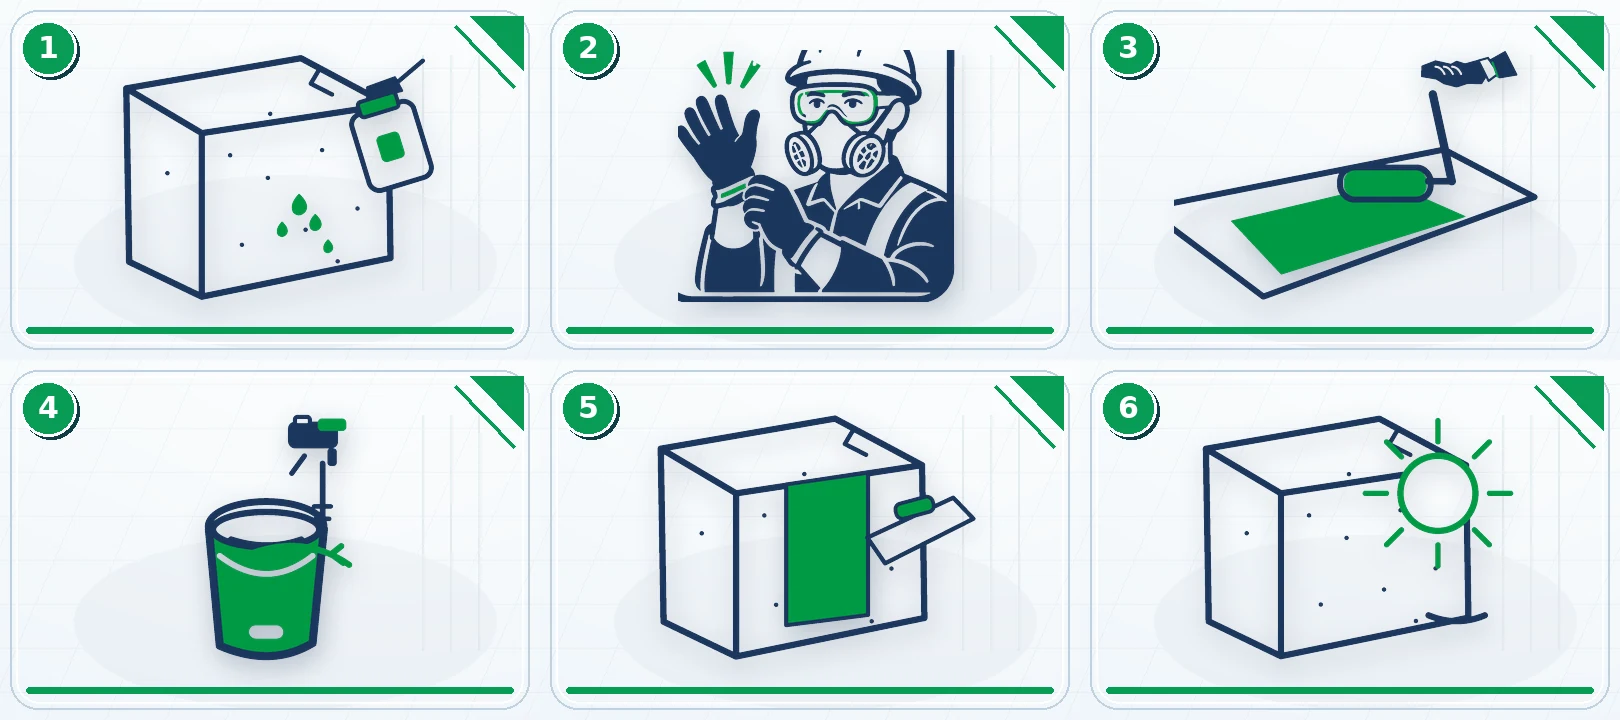
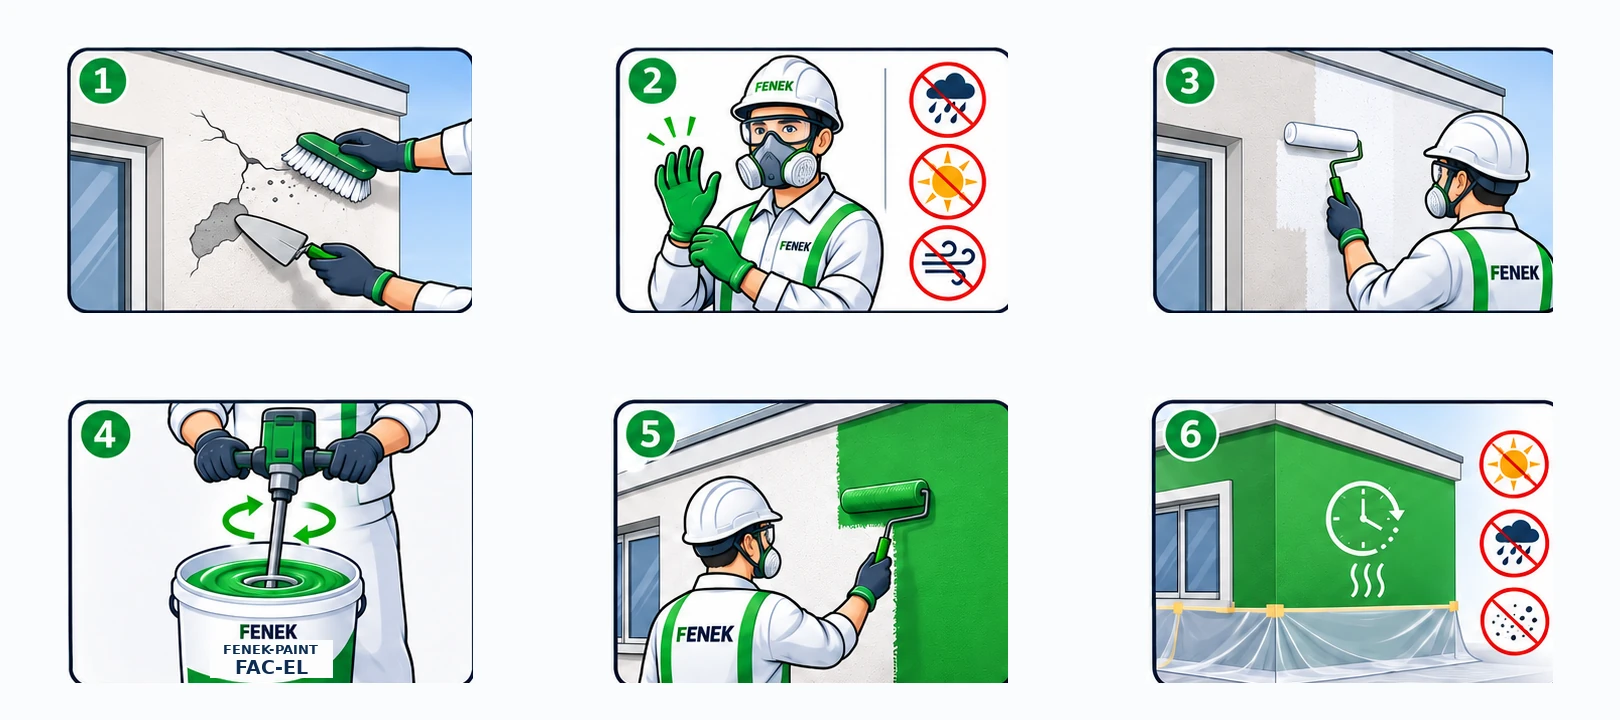
Lot 138: modernize 3 FENEK facade paint six-step illustrations

diff --git a/tests/test_lot138_facade_art.py b/tests/test_lot138_facade_art.py
@@ -1,0 +1,46 @@
+"""Lot 138: professional façade visuals are real, product bound and source safe."""
+import hashlib
+import json
+import unittest
+from pathlib import Path
+
+ROOT = Path(__file__).resolve().parents[1]
+ART=json.loads((ROOT/"src/data/fenek-enhanced-artwork.json").read_text(encoding="utf-8"))
+MAN=json.loads((ROOT/"src/data/fenek-v3-manuals.json").read_text(encoding="utf-8"))
+CAT=json.loads((ROOT/"src/data/catalogue-projets.json").read_text(encoding="utf-8"))
+CODES={"PAINT-FAC-M","PAINT-FAC-EL","PAINT-FAC-SX"}
+TITLES=["Nettoyer et réparer la façade","Porter les EPI, éviter les intempéries",
+        "Appliquer le primaire adapté","Homogénéiser selon la fiche technique",
+        "Appliquer sur façade au rouleau","Protéger le revêtement pendant le séchage"]
+class FacadeIllustrations(unittest.TestCase):
+    def test_three_exact_sources_and_six_steps(self):
+        by={p["code"]:p for p in ART}
+        docs={p["code"]:p for p in MAN}
+        cat={p["code"]:p for p in CAT}
+        self.assertEqual(set(by)&CODES,CODES)
+        for code in CODES:
+            with self.subTest(code=code):
+                x=by[code]
+                self.assertEqual(x["slug"],cat[code]["slug"])
+                self.assertEqual(x["slug"],docs[code]["slug"])
+                self.assertEqual([s["title"]["fr"] for s in docs[code]["steps"]],TITLES)
+                self.assertEqual(x["status"],"BROUILLON")
+                self.assertEqual(x["sourceType"],"illustration-professionnelle-façade-6-scènes")
+                self.assertEqual(set(x["sharedSceneWorkflowWith"]),CODES)
+                self.assertEqual(x["sprite"],"/images/application-upgraded/"+x["slug"]+"-steps.webp")
+                self.assertEqual(x["artworkDimensions"],[540,360])
+                raw=(ROOT/"public"/x["sprite"].lstrip("/")).read_bytes()
+                self.assertEqual(raw[:4],b"RIFF")
+                self.assertEqual(raw[8:12],b"WEBP")
+                self.assertEqual(hashlib.sha256(raw).hexdigest(),x["sha256"])
+                self.assertLess(len(raw),250000)
+
+    def test_real_component_prioritizes_specific_image(self):
+        ui=(ROOT/"src/components/FenekApplicationGuide.astro").read_text(encoding="utf-8")
+        self.assertIn("item.code===product.code && item.slug===product.slug",ui)
+        self.assertIn("enhancedV3?.sprite ?? reviewedV3.sprite",ui)
+        self.assertIn("--v3-sprite:url('${enhancedV3?.sprite ?? reviewedV3.sprite}')",ui)
+        self.assertIn("data-v3-enhanced-sprite={enhancedV3?.sprite}",ui)
+        self.assertIn("data-v3-enhanced-hash={enhancedV3?.sha256}",ui)
+
+if __name__=="__main__":unittest.main()

diff --git a/tests/test_lot134_137_all_50_artwork.py b/tests/test_lot134_137_all_50_artwork.py
@@ -33,7 +33,10 @@ class AllFenekArtwork(unittest.TestCase):
                 self.assertEqual(image["layout"],"3x2")
                 self.assertEqual(image["artworkDimensions"],[540,360])
                 self.assertEqual([s["image"] for s in guides[code]["steps"]],list(range(1,7)))
-                if code not in ARCHIVE:
+                if code in {"PAINT-FAC-M","PAINT-FAC-EL","PAINT-FAC-SX"}:
+                    self.assertEqual(image["sourceType"],"illustration-professionnelle-façade-6-scènes")
+                    self.assertEqual(set(image["sharedSceneWorkflowWith"]),{"PAINT-FAC-M","PAINT-FAC-EL","PAINT-FAC-SX"})
+                elif code not in ARCHIVE:
                     self.assertEqual(image["sourceType"],"remaster-graphique-des-six-PNG-V3-originaux")
                 p=ROOT/"public"/image["sprite"].lstrip("/")
                 self.assertTrue(p.is_file(),p)

diff --git a/docs/LOT138_PEINTURES_FACADE_20261112.md b/docs/LOT138_PEINTURES_FACADE_20261112.md
@@ -1,0 +1,22 @@
+# Lot 138 — peintures de façade FENEK : six illustrations propres par référence
+12 novembre 2026 · statut BROUILLON
+
+## Motivation
+Le rendu précédent des modes d'emploi PAINT-FAC manquait de clarté (objets sans perspective, façades schématiques). Les trois peintures de façade ont les mêmes six intitulés source FR/AR, vérifiés individuellement contre `NEXTGEN_modes_emploi_V3.zip` et le manifeste publié ; un visuel professionnel commun est acceptable uniquement avec les bonnes étiquettes de produit.
+
+## Travaux livrés
+- `PAINT-FAC-M`, `PAINT-FAC-EL`, `PAINT-FAC-SX` : six scènes métier chacune, illustrations professionnelles vectorielles détaillées.
+- Scènes : préparation/réparation de la façade ; EPI + météo ; application du primaire sur un mur vertical ; mélange de peinture ; rouleau de peinture sur la façade ; protection pendant le séchage.
+- Trois WebP dédiés de 1620×720 (trois colonnes × deux rangées, chaque cellule 540×360), sans légende AR/FR incrustée : le HTML conserve les titres accessibles et les traductions EN.
+- La marque, l'étiquette du seau de mélange et le code FAC-M/FAC-EL/FAC-SX correspondent à chaque produit, et les images n'ajoutent aucun dosage, durée, certificat ou performance.
+- Registre `src/data/fenek-enhanced-artwork.json` : sha256 propre à chaque produit, `sourceType=illustration-professionnelle-façade-6-scènes`, `sharedSceneWorkflowWith` trace la séquence commune.
+- Assets historiques V3 conservés pour repli, autres références inchangées. Association au site par `code+slug` existante dans `FenekApplicationGuide.astro`.
+
+## Contrôles
+- Test d'intégrité des 50 médias modifié pour reconnaître la nouvelle source professionnelle sur ces trois seuls produits.
+- Test ciblé `tests/test_lot138_facade_art.py` vérifie code/slug, six titres, format, statut, médias, sha256 et composant Astro.
+- Les GitHub Actions doivent être contrôlés indépendamment ; si le runner échoue avant les tests, ne pas qualifier la CI de succès.
+- Déploiement à vérifier via `https://nextgen-buildingsolutions.com/deployment.json`, médias publics et documentation FR/AR/EN.
+
+## Suite
+Moderniser les 36 illustrations qui restent issues des pictogrammes V3 remastérisés, produit par produit et sans compromettre l'exactitude des gestes. Les 11 produits BOND initiaux restent les autres références avec rendu haut de gamme. Aucun produit ne doit être qualifié de certifié sans validation de la FT/FDS.
